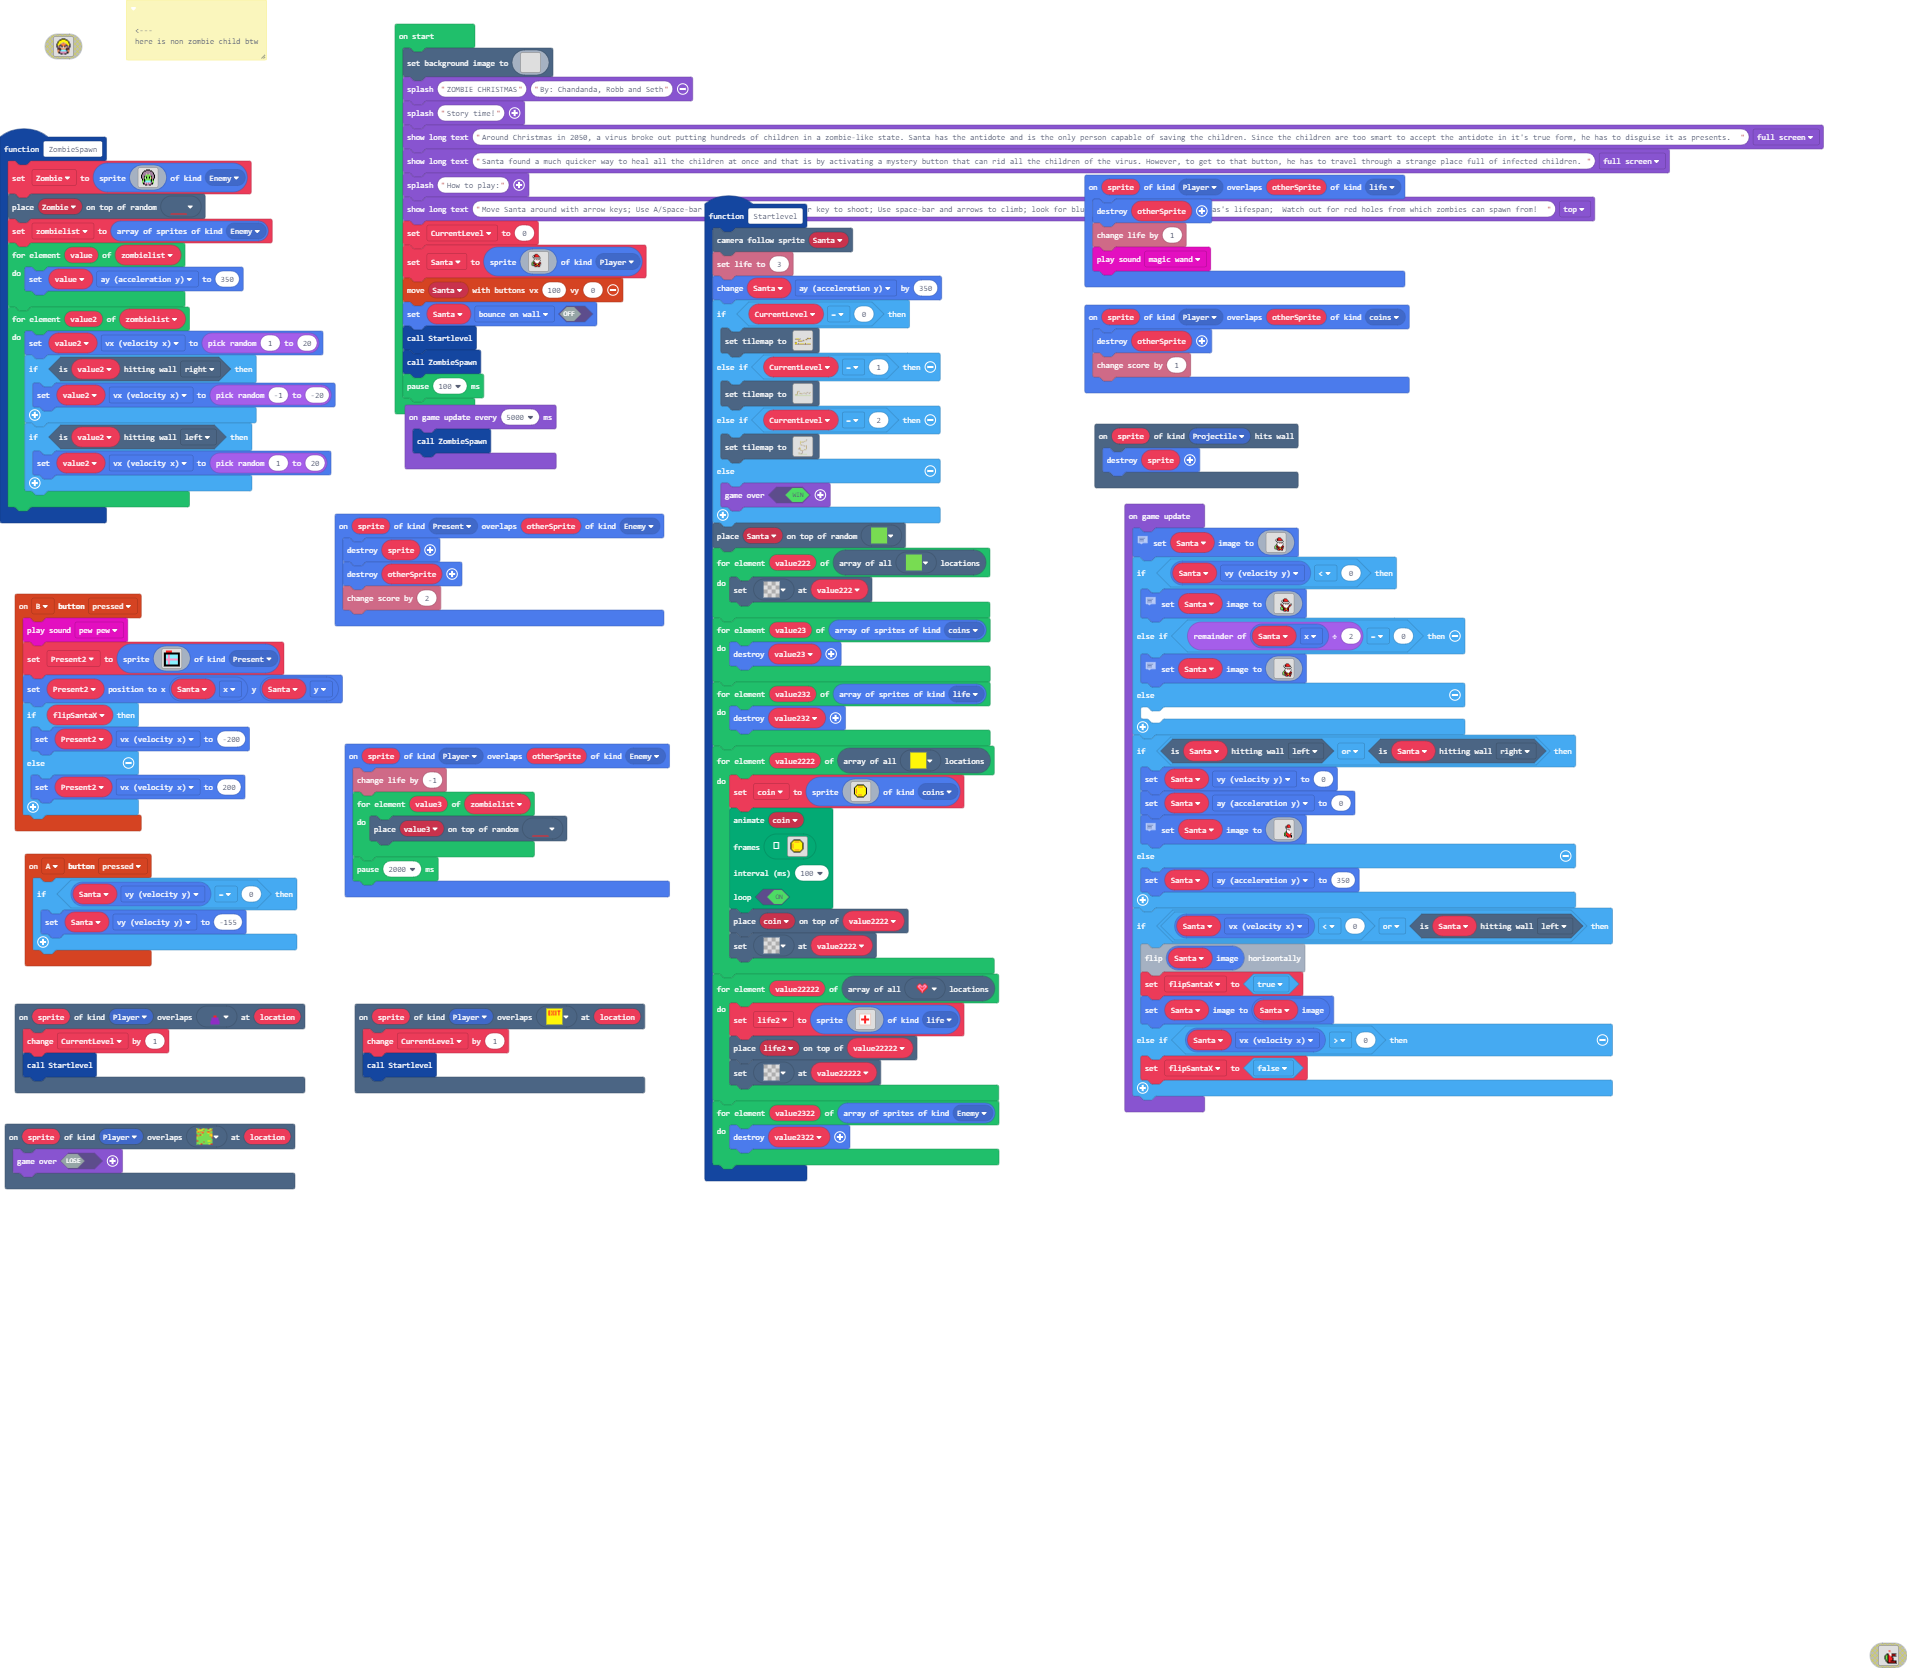
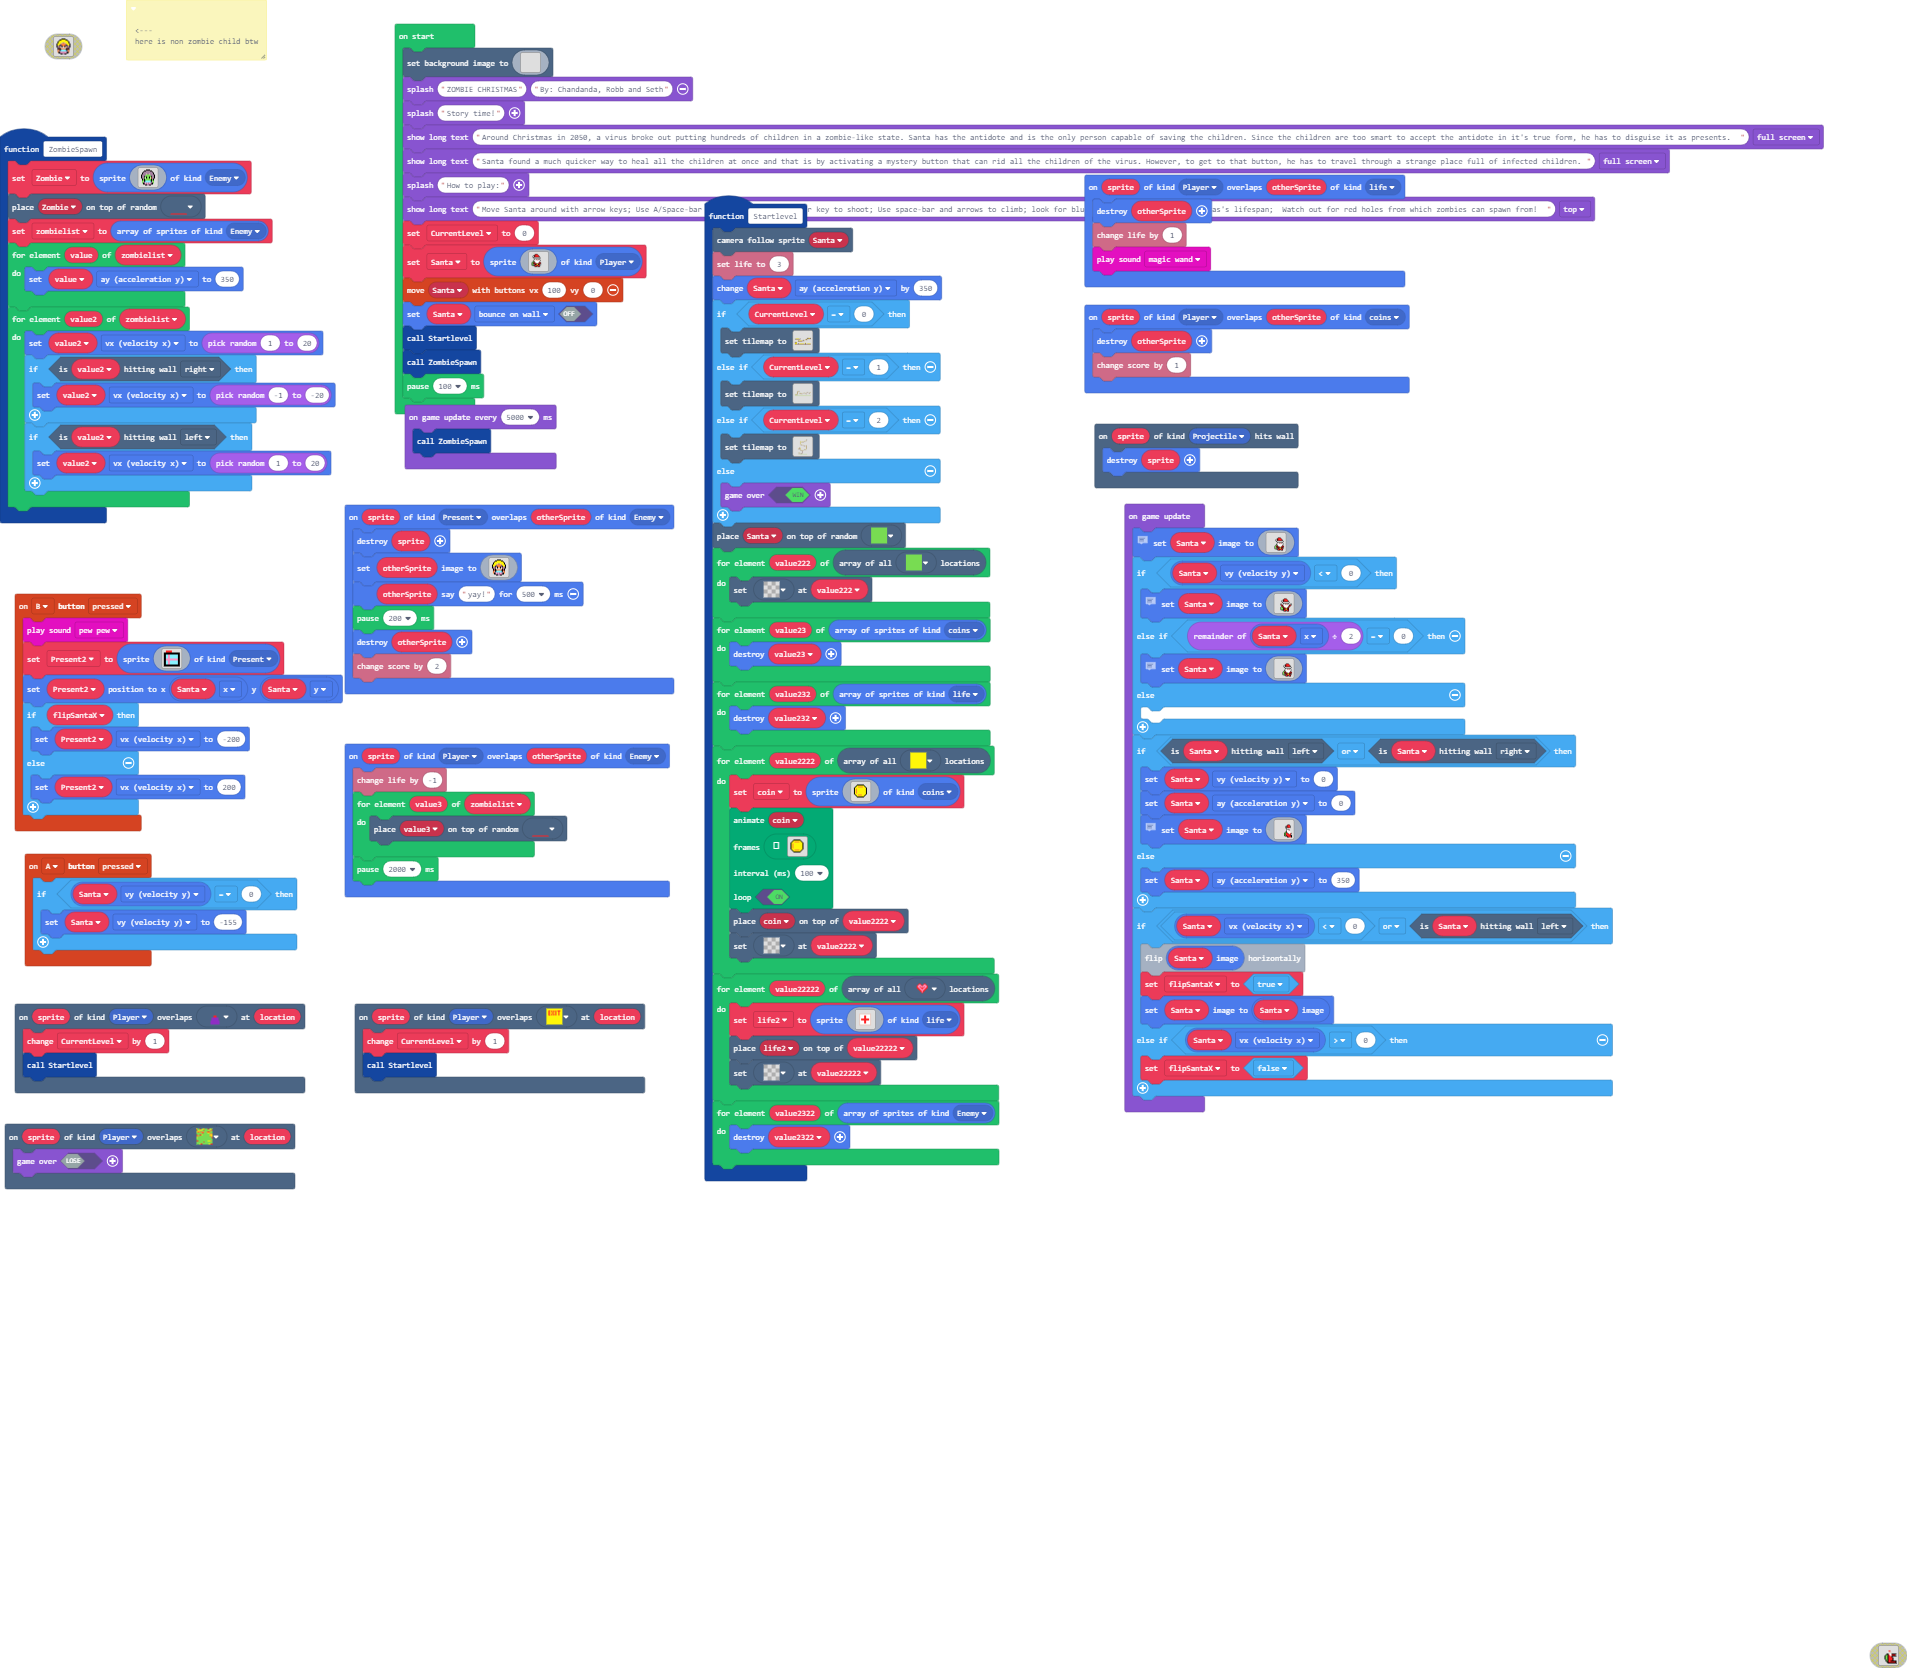
Update main.blocks, main.ts

Changed region(s): [[0.1547, 0.2806, 0.3713, 0.4365]]

diff --git a/main.ts b/main.ts
@@ -639,6 +639,26 @@ scene.onOverlapTile(SpriteKind.Player, myTiles.tile2, function (sprite, location
 })
 sprites.onOverlap(SpriteKind.Present, SpriteKind.Enemy, function (sprite, otherSprite) {
     sprite.destroy()
+    otherSprite.setImage(img`
+. . . . . f f f f . . . . . 
+. . . f f 5 5 5 5 f f . . . 
+. . f 5 5 5 5 5 5 5 5 f . . 
+. f 5 5 5 5 5 5 5 5 5 5 f . 
+. f 5 5 5 d b b d 5 5 5 f . 
+f 5 5 5 b 4 4 4 4 b 5 5 5 f 
+f 5 5 c c 4 4 4 4 c c 5 5 f 
+f b b f b f 4 4 f b f b b f 
+f b b 4 1 f d d f 1 4 b b f 
+. f b f d d d d d d f b f . 
+. f e f e 4 4 4 4 e f e f . 
+. e 4 f 6 9 9 9 9 6 f 4 e . 
+. 4 d c 9 9 9 9 9 9 c d 4 . 
+. 4 f b 3 b 3 b 3 b b f 4 . 
+. . f f 3 b 3 b 3 3 f f . . 
+. . . . f f b b f f . . . . 
+`)
+    otherSprite.say("yay!", 500)
+    pause(200)
     otherSprite.destroy()
     info.changeScoreBy(2)
 })
